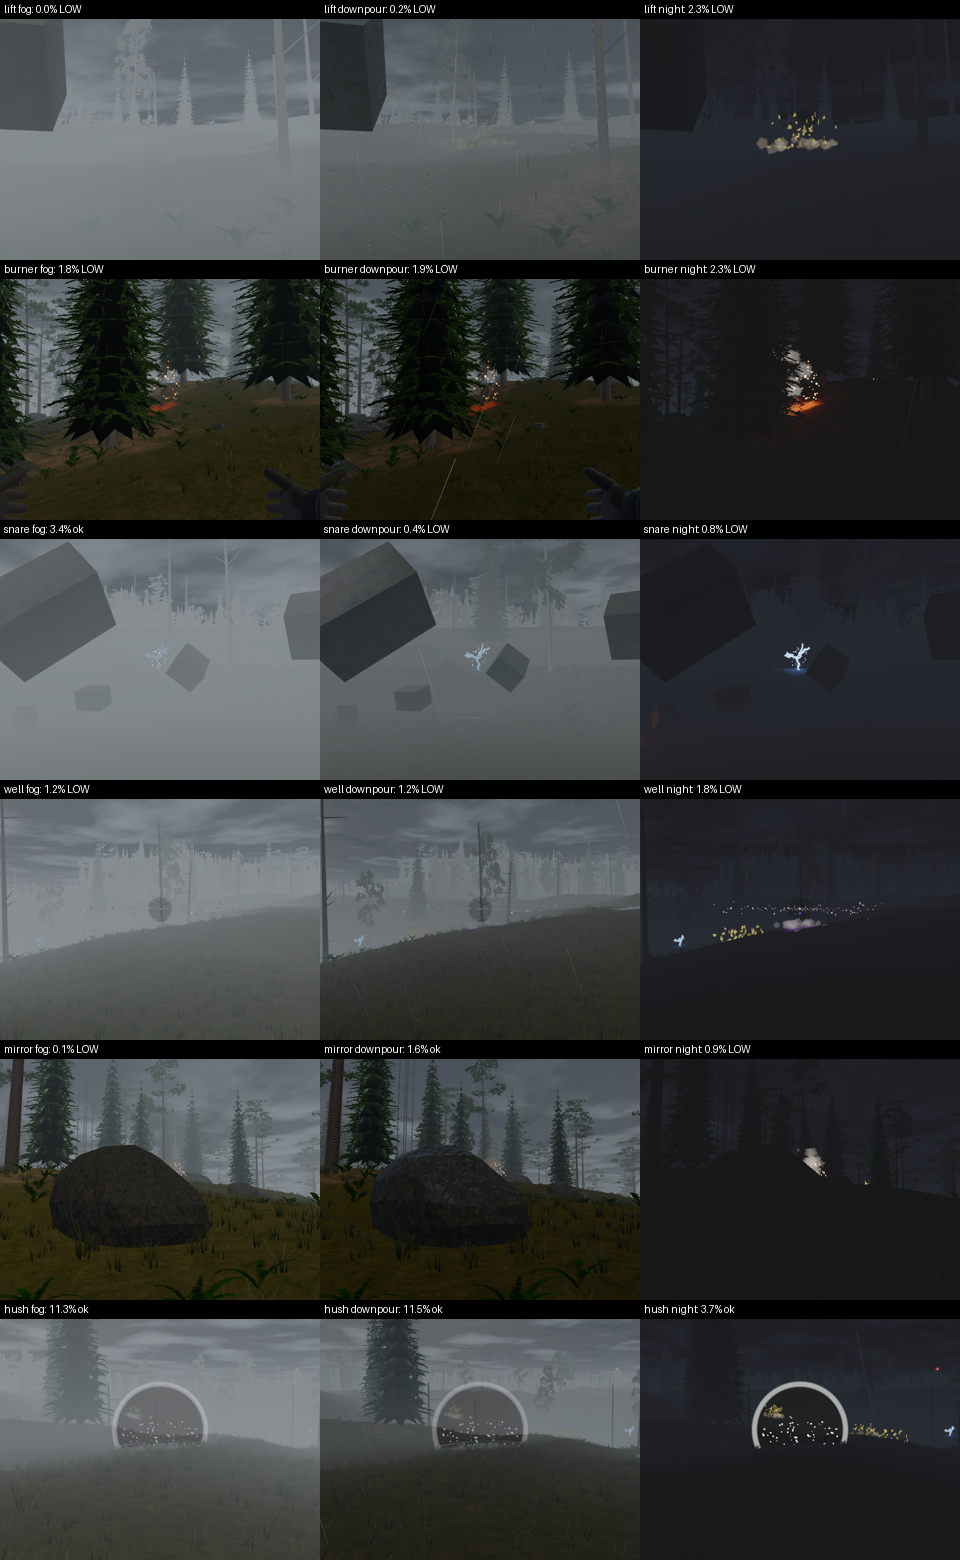
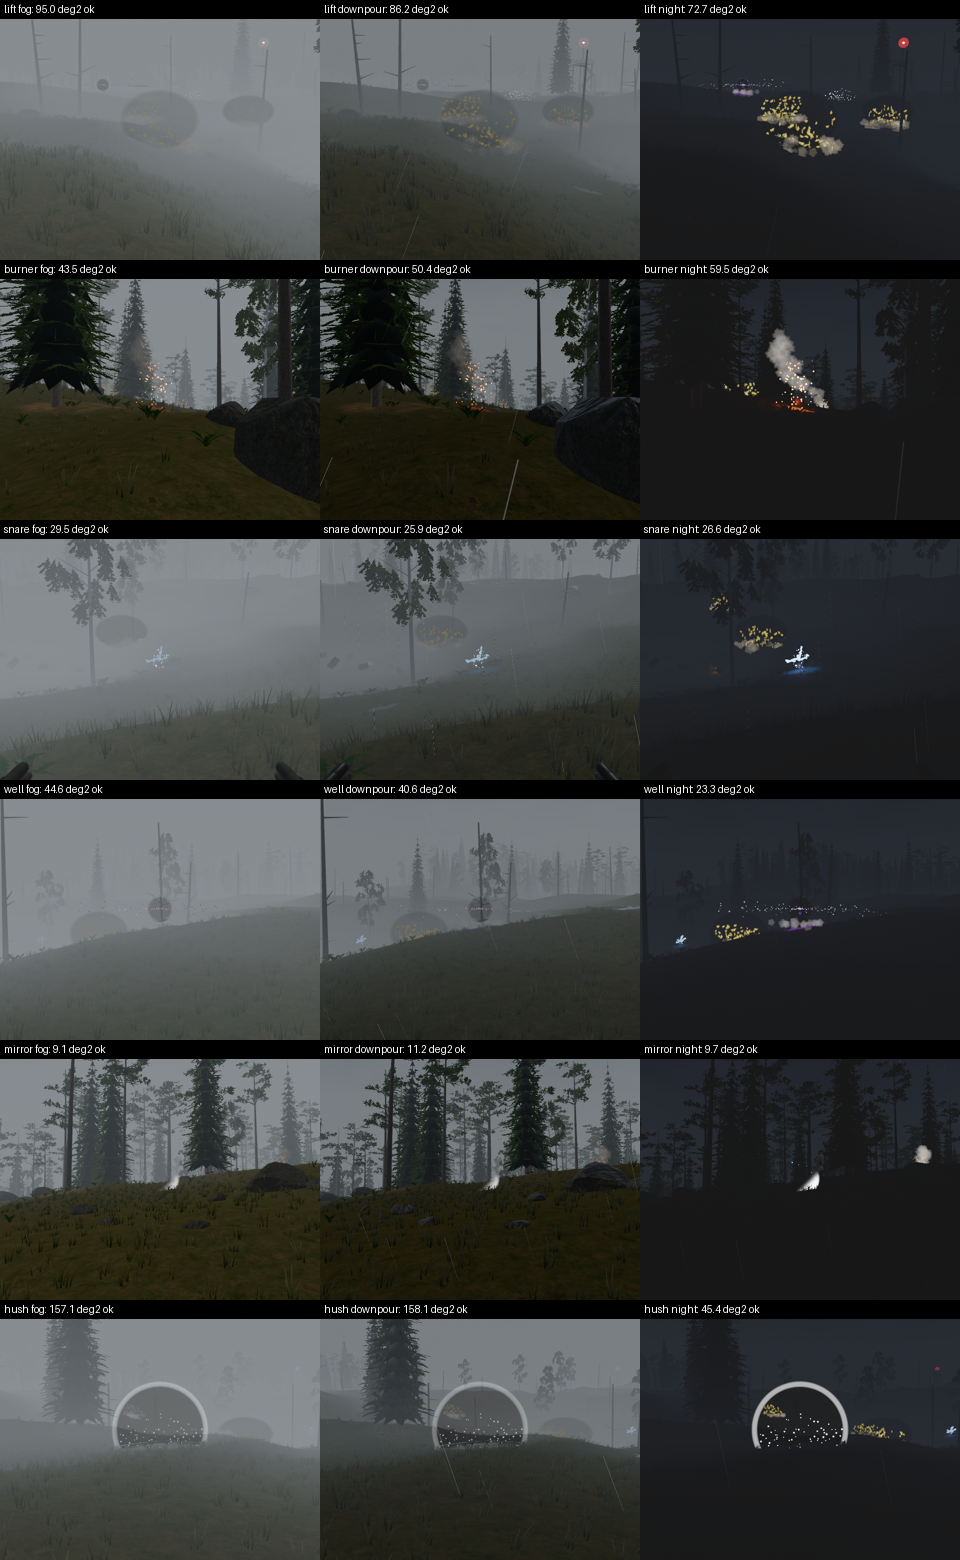
Anomalies: every kind reads at 20 m in fog, downpour and a moonless night
The gauge's third run: all 18 views clear their floor (lift 95/86/73
deg2, snare 30/26/27, mirror 9/11/10, ...); in the first, re-scored the
same way, the lift in fog and the mirror at night changed nothing. Sheet
and numbers in docs/shots/anomalies/legibility.*, written up in
ANOMALIES.md.

Claude-Session: https://claude.ai/code/session_01Jh513kJMQ8gf9L4fAucvBe

diff --git a/docs/ANOMALIES.md b/docs/ANOMALIES.md
@@ -170,33 +170,29 @@ water. So the views follow the layout when it moves.
 The gauge writes a contact sheet, `legibility.png`, and its numbers in
 `legibility.json`. The first run is kept as `legibility_before.*`.
 
-Where it stands: 13 of 18 views are under their floor, down from 14.
-The Hush now clears all three conditions: 11% of its box in fog and
-rain, and 3.7% at night where it was 1.3%.
+The floor is what you see, not a share of the box: at least 2 square
+degrees changed, about a head at 10 m (1 for a mirror). That's at the
+shots' 12 px/deg (75° is the vertical field of view). The first cut held
+each kind to 3% of the box, which is 36 deg², and marked a plainly seen
+burner LOW. The views keep their line of sight off trunks, rocks and
+anything the map places (`sight_blockers`). A boulder once hid the
+mirror.
 
-The fixes moved the other kinds, but not past 3%:
+Where it stands: every kind clears its floor in all three conditions.
 
-| Kind | Fog before → after | Notes |
-|---|---|---|
-| Well | 0.2% → 1.2% | its dark lens now shows in fog |
-| Burner | 0.5% → 1.8% | |
-| Snare | 0.1% → 3.4% | passes in fog |
-| Mirror | — | 1.6% in rain, passes its 1% floor there |
+| Kind | Fog | Downpour | Night |
+|---|---|---|---|
+| Lift | 95 | 86 | 73 |
+| Burner | 44 | 50 | 60 |
+| Snare | 30 | 26 | 27 |
+| Well | 45 | 41 | 23 |
+| Mirror | 9 | 11 | 10 |
+| Hush | 157 | 158 | 45 |
 
-The lift, burner and snare views are of different anomalies than the
-first run's, because the layout moved with main.
-
-Two things the gauge itself still gets wrong:
-
-- `view_of` doesn't know rocks or floating crates. The mirror's view is
-  behind a boulder, and crates hang in the lift's and snare's.
-- The 3% floor favours big things. The burner's embers and glow read
-  plainly in the shot at 1.8%. A floor in square degrees, a patch a
-  couple of degrees across, would measure what the eye picks out
-  better.
-
-Next: those two fixes, then the lift in fog. It is still 0.0%; its
-leaves are lost in pea-souper fog even fogged at half distance.
+All figures are deg². The first run, re-scored the same way, had the
+lift at 0 and the snare at 1.2 in fog, and the mirror at 0 at night. The
+lift's column of air is now a shade darker, and that is what carries it
+through pea-souper fog, where its leaves don't.
 
 What it taught us:
 
